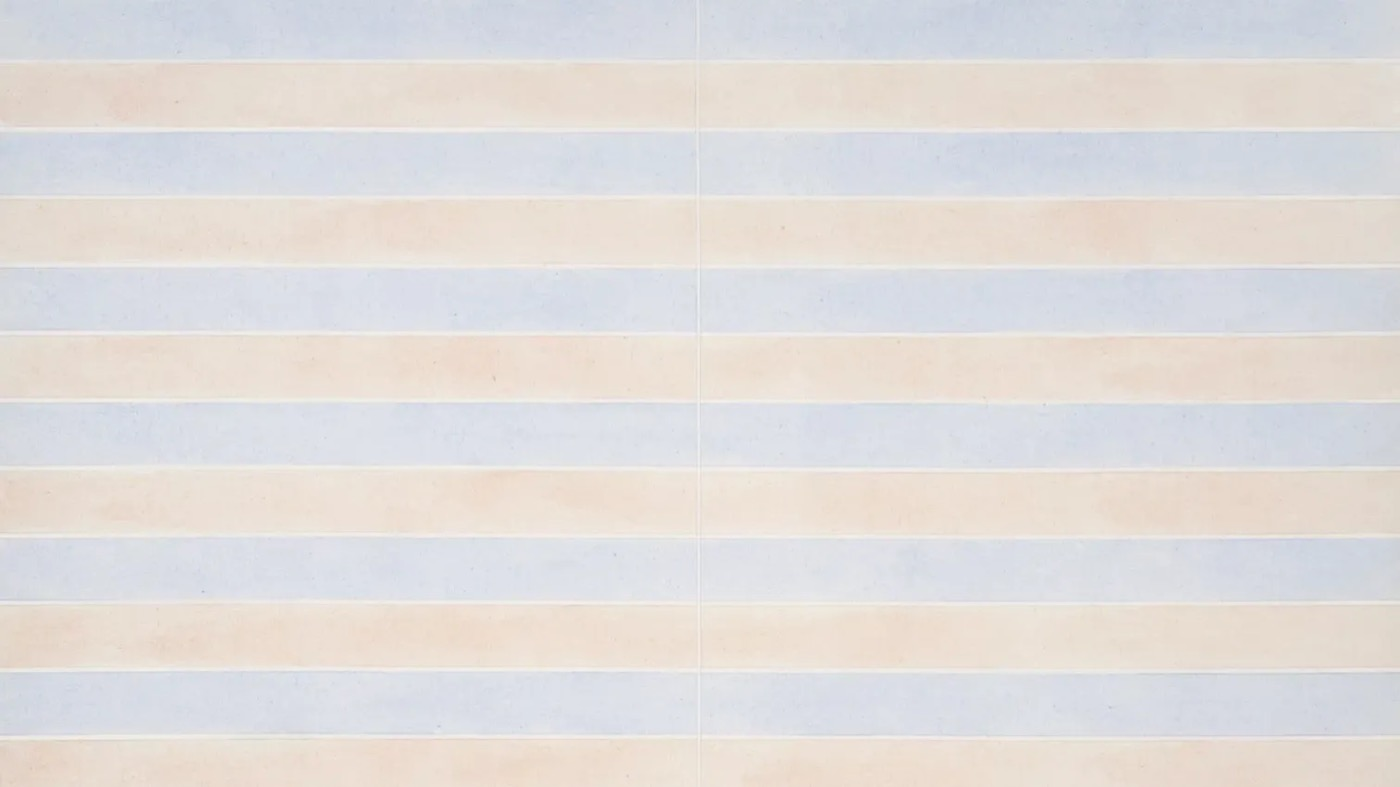
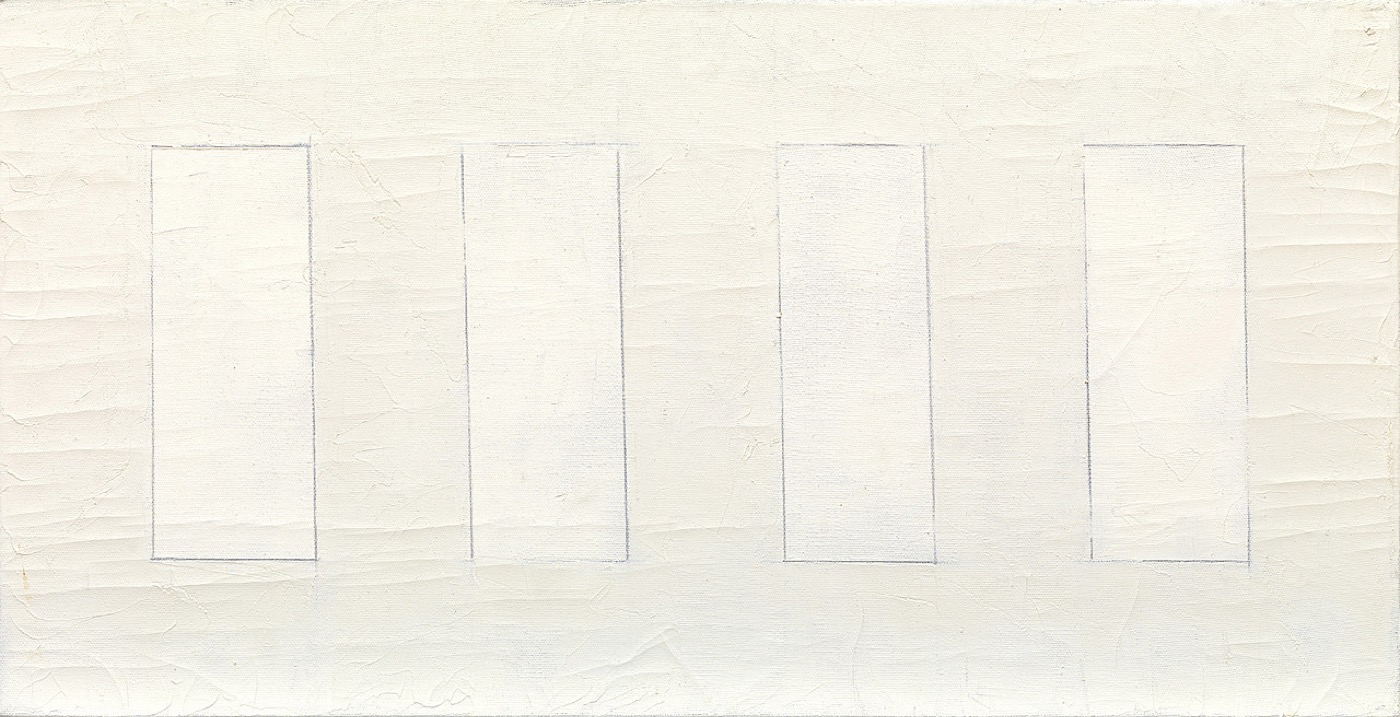
Swap default hero to Agnes Martin Untitled 1959

diff --git a/index.html b/index.html
@@ -238,7 +238,7 @@
     <script>
       (function () {
         const captions = {
-          'default': "Agnes Martin\n(Section) Untitled #20, 1974\nAcrylic, graphite and gesso on canvas\n182.9 x 182.9 cm",
+          'default': "Agnes Martin\nUntitled, 1959\nOil and graphite on canvas\n12 1/8 x 23 7/8 in (30.8 x 60.6 cm)",
           'hockney-23-03': "David Hockney\nfrom The Moon Room Series, 2020\niPad painting printed on paper, mounted on Dibond\nEdition of 15\n70 × 100 cm\n© David Hockney",
           'webster-03-04': "Emma Webster\nThe Rehearsal (Harvest Moon) (2023)\n60 x 84 in\nOil on linen",
           'lee-04-05': "Sarah Lee\nThe Night Stars Fell, 2022\nOil on canvas\n55 x 50 in",